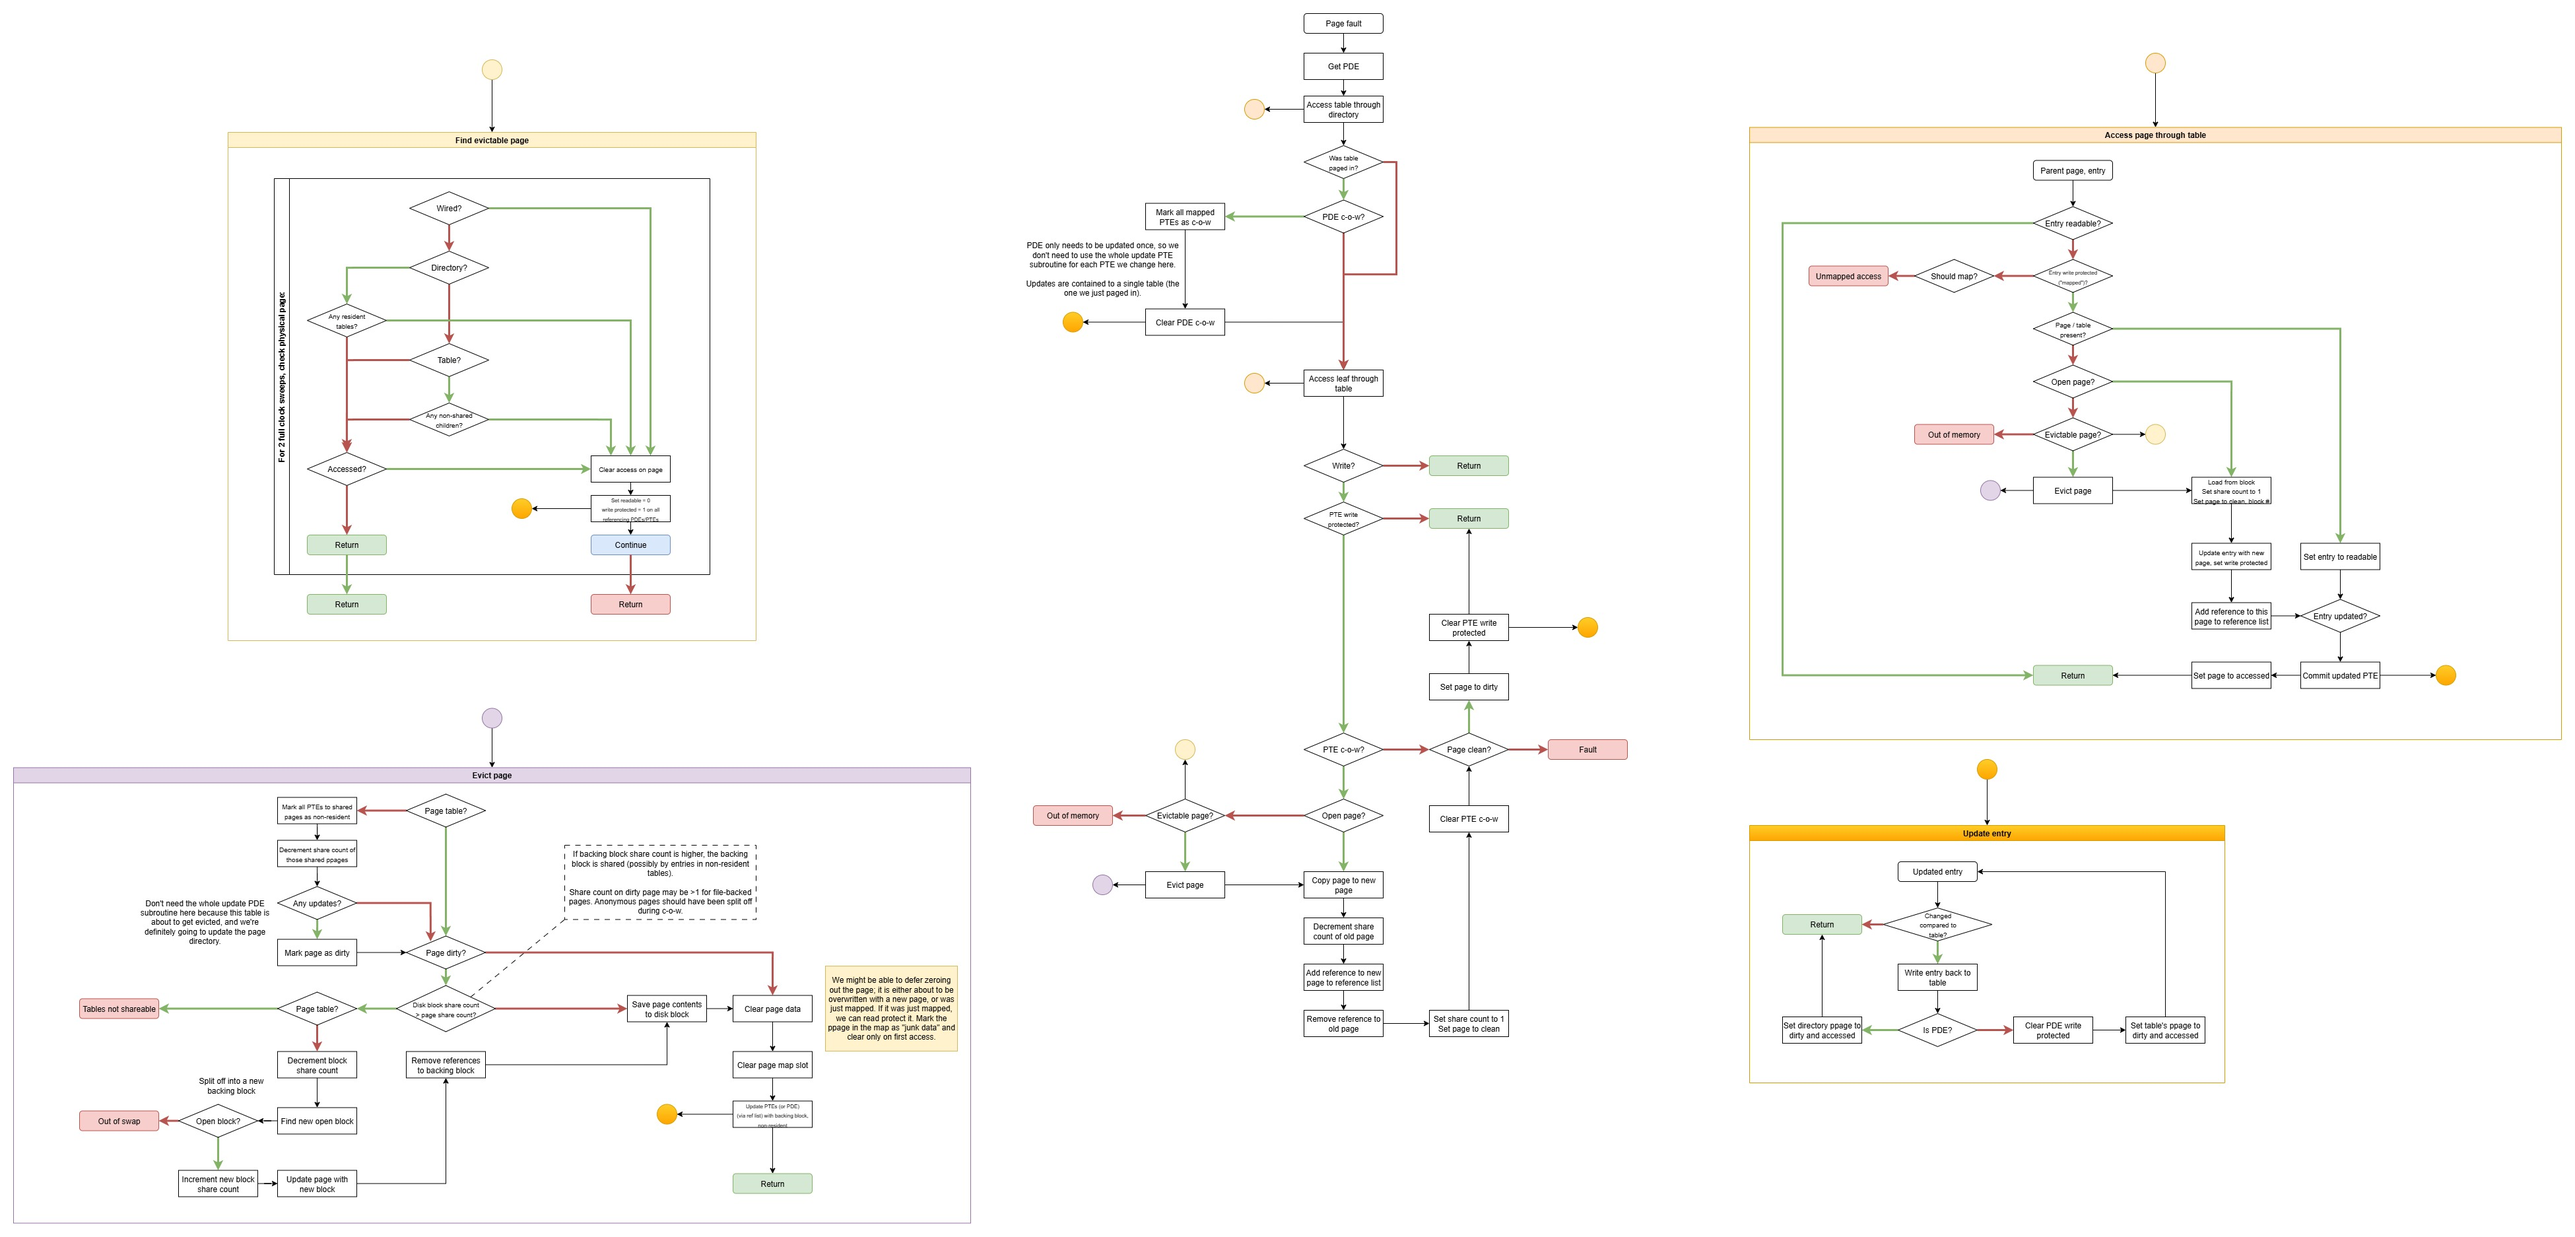
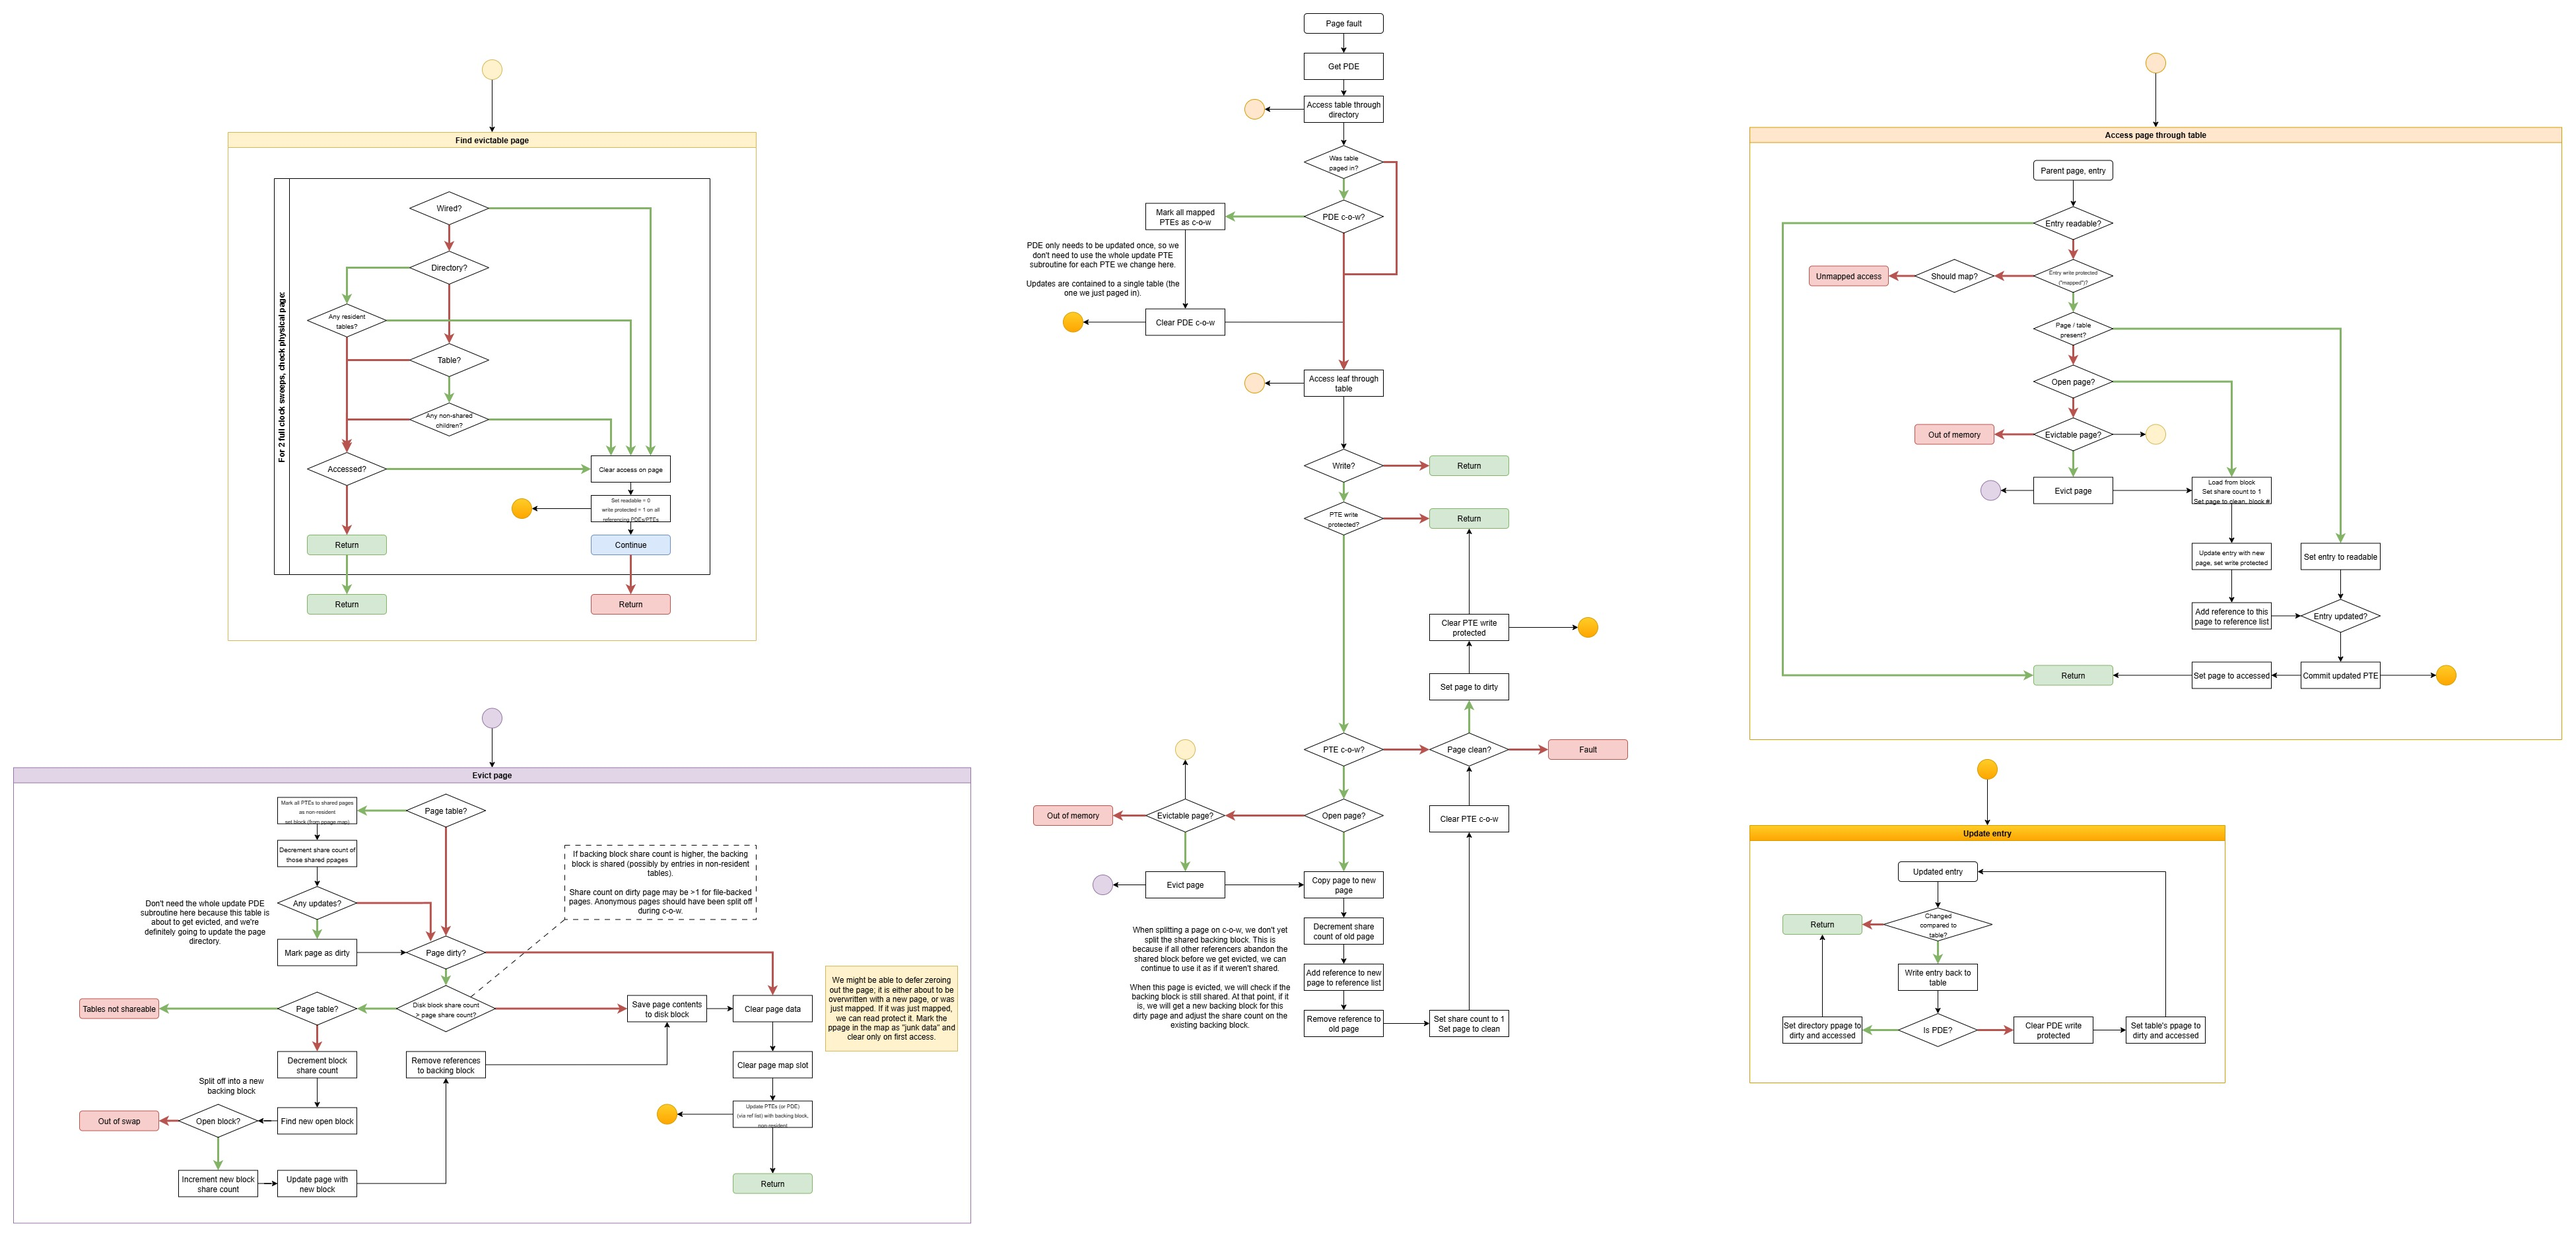
begin translating flow chart into code that will eventually replace OSSimulator.py

diff --git a/nlogic_sim/tools/OS_Simulator/NewSimulator.py b/nlogic_sim/tools/OS_Simulator/NewSimulator.py
@@ -1,0 +1,389 @@
+from dataclasses import dataclass, asdict
+from enum import Enum
+
+from mmu import MMU
+from disk import Disk
+
+PAGE_SIZE = 0x1000
+PROCESS_MAP_LENGTH = 0x10
+PHYSICAL_MEMORY_PAGES = 0x10
+PAGE_REFERENCE_LIST_LENGTH = PHYSICAL_MEMORY_PAGES # there shouldn't be more references to ppages than physical pages?
+DISK_BLOCK_REFERENCE_LIST_LENGTH = 0x20 # arbitrary for now
+KERNEL_VARIABLE_BASE_ADDR = 0x6000
+
+
+def dump_memory(memory: list[int], name: str = None):
+    file_name = "memory_dump.txt"
+    if name:
+        file_name = f"memory_dump_{name}.txt"
+    with open(file_name, "w") as f:
+        lines = []
+        for i in range(0, len(memory), 0x04):
+            value = memory[i:i+4]
+            str_value = " ".join([f"{x:02X}" for x in value])
+            lines.append(f"{i:04X}\t{str_value}\n")
+        f.writelines(lines)
+
+
+class KernelVariable(Enum):
+    ProcessMap = "PROCESS_MAP"
+    PhysicalPageMap = "PHYSICAL_PAGE_MAP"
+    PhysicalPageReferenceList = "PHYSICAL_PAGE_REFERENCE_LIST"
+    DiskBlockReferenceList = "DISK_BLOCK_REFERENCE_LIST"
+    ActiveProcessId = "ACTIVE_PROCESS_ID"
+    ActiveProcessPageDirectoryPhysicalPage = "ACTIVE_PROCESS_PAGE_DIRECTORY_PHYSICAL_PAGE"
+
+class PageType(Enum):
+    LeafPage = 1
+    PageTable = 2
+    PageDirectory = 3
+
+@dataclass
+class ProcessMapEntry:
+    pid: int = 0
+    page_directory_block: int = 0
+    page_directory_ppage: int = 0
+
+@dataclass
+class PhysicalPageMapEntry:
+    # which page type resides in this physical page
+    page_type: PageType = PageType.LeafPage
+
+    # which disk block number backs this page; 0 if there is no disk block
+    disk_block_number: int = 0
+
+    # number of processes that map a virtual page to this physical page
+    share_count: int = 0
+
+    # True if this page was modified since it was brought into memory
+    dirty: bool = False
+
+    # True if this page should be ignored when finding a page to evict
+    wired: bool = False
+
+
+@dataclass
+class PhysicalPageReference:
+    # process whose reference this is; 0 if this is an empty reference
+    pid: int = 0
+
+    # physical page being referenced
+    ppage: int = 0
+
+    # the virtual page this process maps to this physical page
+    vpage: int = 0
+
+    # the physical page where the table that holds this mapping resides
+    table_ppage: int = 0
+
+@dataclass
+class DiskBlockReference:
+    # process with a page backed by this disk block; 0 if this is an empty reference
+    pid: int = 0
+
+    # disk block number
+    disk_block: int = 0
+
+
+def generate_kernel_arrays(base_virtual_address: int):
+    process_map_entry_size = 0x04 * len(asdict(ProcessMapEntry()))
+    ppage_map_entry_size = 0x04 * len(asdict(PhysicalPageMapEntry()))
+    ppage_reference_size = 0x04 * len(asdict(PhysicalPageReference()))
+    disk_block_reference_size = 0x04  * len(asdict(DiskBlockReference()))
+
+    process_map_size = process_map_entry_size * PROCESS_MAP_LENGTH
+    ppage_map_size = ppage_map_entry_size * PHYSICAL_MEMORY_PAGES
+    ppage_reference_list_size = ppage_reference_size * PHYSICAL_MEMORY_PAGES
+    disk_block_reference_list_size = disk_block_reference_size * DISK_BLOCK_REFERENCE_LIST_LENGTH
+
+    variables_and_sizes = [
+        (KernelVariable.ProcessMap, process_map_size),
+        (KernelVariable.PhysicalPageMap, ppage_map_size),
+        (KernelVariable.PhysicalPageReferenceList, ppage_reference_list_size),
+        (KernelVariable.DiskBlockReferenceList, disk_block_reference_list_size),
+        (KernelVariable.ActiveProcessId, 0x04),
+        (KernelVariable.ActiveProcessPageDirectoryPhysicalPage, 0x04)
+    ]
+    addr = base_virtual_address
+    kernel_addresses = {}
+
+    for (variable, size) in variables_and_sizes:
+        kernel_addresses[variable] = addr
+        addr += size
+
+    # return variable start addresses in VA and total size of variables mapped
+    return kernel_addresses, (addr - base_virtual_address)
+
+variable_offsets, total_size = generate_kernel_arrays(KERNEL_VARIABLE_BASE_ADDR)
+for k, v in variable_offsets.items():
+    print(f"{k.value}:\t\t0x{v:08x}")
+print(f"0x{total_size:08x} bytes")
+
+
+PROCESS_MAP_ADDR = variable_offsets[KernelVariable.ProcessMap]
+PHYSICAL_PAGE_MAP_ADDR = variable_offsets[KernelVariable.PhysicalPageMap]
+PHYSICAL_PAGE_REFERENCE_LIST_ADDR = variable_offsets[KernelVariable.PhysicalPageReferenceList]
+DISK_BLOCK_REFERENCE_LIST_ADDR = variable_offsets[KernelVariable.DiskBlockReferenceList]
+ACTIVE_PROCESS_ID_ADDR = variable_offsets[KernelVariable.ActiveProcessId]
+ACTIVE_PROCESS_PAGE_DIRECTORY_PHYSICAL_PAGE_ADDR = variable_offsets[KernelVariable.ActiveProcessPageDirectoryPhysicalPage]
+
+
+class Environment:
+    def __init__(self, size_in_bytes: int = 2**16):
+        self.memory = [0] * size_in_bytes
+        self.mmu = MMU(self.memory)
+        self.disk = Disk(self.memory)
+
+    def read_memory(self, addr: int) -> int:
+        pass
+
+    def write_memory(self, addr: int, value: int):
+        pass
+
+    def get_active_process_id(self) -> int:
+        # return from active process ID variable
+        pass
+
+    def get_directory_ppage(self) -> int:
+        # return from active process dir ppage variable
+        pass
+
+    def access_page_through_table(self, parent_table_ppage: int, entry_number: int) -> tuple[int, bool]:
+        """
+        Returns tuple of PDE/PTE and True if the page was paged in from disk, False if the page was already present
+        """
+        pass
+
+    def get_table_number_from_addr(self, addr: int) -> int:
+        pass
+
+    def get_page_number_from_addr(self, addr: int) -> int:
+        pass
+
+    def get_offset_from_addr(self, addr: int) -> int:
+        pass
+
+    def get_entry_is_cow(self, entry: int) -> bool:
+        pass
+
+    def get_entry_is_readable(self, entry: int) -> bool:
+        pass
+
+    def get_entry_is_write_protected(self, entry: int) -> bool:
+        pass
+
+    def get_entry_number(self, entry: int) -> int:
+        pass
+
+    def get_entry_is_mapped(self, entry: int) -> bool:
+        pass
+
+    def set_entry_write_protected(self, entry: int, new_value: bool) -> int:
+        pass
+
+    def set_entry_readable(self, entry: int, new_value: bool) -> int:
+        pass
+
+    def set_entry_cow(self, entry: int, new_value: bool) -> int:
+        pass
+
+    def set_entry_number(self, entry: int, new_value: int) -> int:
+        pass
+
+    def get_entry_disk_block(self, entry: int) -> int:
+        return self.get_entry_number(entry)
+
+    def get_entry_ppage(self, entry: int) -> int:
+        return self.get_entry_number(entry)
+
+    def get_ppage_is_clean(self, ppage: int) -> bool:
+        pass
+
+    def get_ppage_is_dirty(self, ppage: int) -> bool:
+        return not self.get_ppage_is_clean(ppage)
+
+    def get_ppage_is_table(self, ppage: int) -> bool:
+        pass
+
+    def get_ppage_backing_block(self, ppage: int) -> int:
+        pass
+
+    def set_ppage_clean(self, ppage: int):
+        pass
+
+    def set_ppage_dirty(self, ppage: int):
+        pass
+
+    def set_ppage_share_count(self, ppage: int, new_value: int):
+        pass
+
+    def decrement_ppage_share_count(self, ppage: int):
+        pass
+
+    def clear_ppage_map_slot(self, ppage: int):
+        pass
+
+    def remove_page_reference(self, process_id: int, parent_table_ppage: int, vpage: int):
+        """
+        Remove the given reference from the reference list.
+        """
+        pass
+
+    def add_page_reference(self, process_id: int, parent_table_ppage: int, vpage: int):
+        """
+        Add a reference to the reference list.
+        """
+        pass
+
+    def copy_ppage_contents(self, source_ppage: int, dest_ppage: int):
+        """
+        Copies data from source physical page to destination physical page.
+        Does not modify the physical page map.
+        """
+        pass
+
+    def clear_ppage_contents(self, ppage: int):
+        pass
+
+    def get_evictable_ppage(self) -> tuple[int, bool]:
+        """
+        Returns (evictable ppage, success)
+        Success will be false if there are no open ppages, in which case, the open ppage result should be ignored.
+        """
+        pass
+
+    def get_open_ppage(self) -> tuple[int, bool]:
+        """
+        Returns (open ppage, success)
+        Success will be false if there are no open ppages, in which case, the open ppage result should be ignored.
+        """
+        pass
+
+    def update_entry_in_table(self, directory_ppage: int|None, table_ppage: int, new_entry: int) -> int:
+        """
+        If directory_ppage is None, this is a PTE; otherwise, it is a PDE.
+        """
+        pass
+
+    def evict_page(self, ppage: int):
+        is_table = self.get_ppage_is_table(ppage)
+        if is_table:
+            # when evicting a table, we need to mark any shared pages it has mapped as non-resident, in case they get paged out
+            # while this table is not resident
+            page_table_base_addr = (ppage * 0x1000)
+            table_was_updated = False
+            for pte_offset in range(0x00, 0x1000, 0x04):
+                pte_addr = page_table_base_addr + pte_offset
+                pte = self.read_memory(pte_addr)
+                # a table should only be evicted if all its mapped pages are non-resident already EXCEPT for shared pages
+                # therefore, any remaining readable page must be shared; mark only those as non-resident now and decerement
+                # the share count of the ppages they point to
+                if self.get_entry_is_readable(pte):
+                    table_was_updated = True
+                    # decrease share count of ppage pointed to by this PTE
+                    ppage = self.get_entry_ppage(pte)
+                    self.decrement_ppage_share_count(ppage)
+                    backing_block = self.get_ppage_backing_block(ppage)
+
+                    # update the PTE to be non-resident and point to the backing block of the ppage
+                    pte = self.set_entry_readable(pte, False)
+                    pte = self.set_entry_write_protected(pte, True) # non-resident pages have RW01
+                    pte = self.set_entry_number(pte, backing_block)
+                    self.write_memory(pte_addr, pte)
+            if table_was_updated:
+                self.set_ppage_dirty(ppage)
+
+        is_dirty = self.get_ppage_is_dirty(ppage)
+        if is_dirty:
+            raise NotImplementedError("TODO")
+
+        self.clear_ppage_contents(ppage)
+        self.clear_ppage_map_slot(ppage)
+
+
+
+        raise NotImplementedError("TODO")
+        for entry in entries_to_update:
+            self.update_entry_in_table(entry)
+
+
+    def handle_leaf_page_cow(self, table_ppage: int, vpage: int, pte: int) -> int:
+        """
+        Returns the updated PTE.
+        """
+        (open_ppage, success_open_page) = self.get_open_ppage()
+        if not success_open_page:
+            (evictable_ppage, success_evictable_page) = self.get_evictable_ppage()
+            if not success_evictable_page:
+                raise Exception("Out of memory: could not find open or evictable page while handling copy-on-write.")
+            self.evict_page(evictable_ppage)
+            open_ppage = evictable_ppage
+
+        new_ppage = open_ppage
+        source_ppage = self.get_entry_ppage(pte)
+
+        self.copy_ppage_contents(source_ppage, new_ppage)
+        self.decrement_ppage_share_count(new_ppage)
+        self.add_page_reference(self.get_active_process_id(), table_ppage, vpage)
+        self.remove_page_reference()
+        self.set_ppage_share_count(new_ppage, 1)
+        self.set_ppage_clean(new_ppage)
+        updated_pte = self.set_entry_cow(pte, False)
+        return updated_pte
+
+    def handle_table_cow(self, directory_ppage: int, pde: int) -> int:
+        """
+        Returns the updated PDE.
+        """
+        page_table_base_addr = (self.get_entry_ppage(pde) * 0x1000)
+        for pte_offset in range(0x00, 0x1000, 0x04):
+            pte_addr = page_table_base_addr + pte_offset
+            pte = self.read_memory(pte_addr)
+            if self.get_entry_is_mapped(pte):
+                pte = self.set_entry_cow(pte, True)
+                self.write_memory(pte_addr, pte)
+
+        updated_pde = self.set_entry_cow(pde, False)
+        self.update_entry_in_table(None, directory_ppage, updated_pde)
+        return updated_pde
+
+    def handle_page_fault(self, faulted_addr: int, is_write: bool):
+        active_process_directory_ppage = self.get_directory_ppage()
+        pde_number = self.get_table_number_from_addr(faulted_addr)
+        (pde, table_is_newly_resident) = self.access_page_through_table(active_process_directory_ppage, pde_number)
+        if table_is_newly_resident:
+            if self.get_entry_is_cow(pde):
+                # handle newly resident page table c-o-w
+                pde = self.handle_table_cow(active_process_directory_ppage, pde)
+
+        table_ppage = self.get_entry_ppage(pde)
+        pte_number = self.get_page_number_from_addr(faulted_addr)
+        (pte, page_is_newly_resident) = self.access_page_through_table(table_ppage, pte_number)
+
+        if not is_write:
+            # jump back to program
+            return
+
+        if not self.get_entry_is_write_protected(pte):
+            # jump back to program
+            return
+
+        target_ppage = self.get_entry_ppage(pte)
+
+        if self.get_entry_is_cow(pte):
+            # handle page is c-o-w
+            pte = self.handle_leaf_page_cow(table_ppage, pte_number, pte)
+
+        if self.get_ppage_is_clean(target_ppage):
+            raise Exception("Physical page cannot be write protected and dirty.")
+
+        self.set_ppage_dirty(target_ppage)
+
+        pte = self.set_entry_write_protected(pte, False)
+        self.update_entry_in_table(active_process_directory_ppage, table_ppage, pte)
+
+        # jump back to program
+        return
+
+
+
